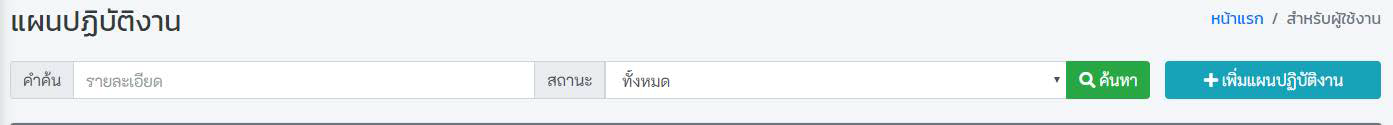
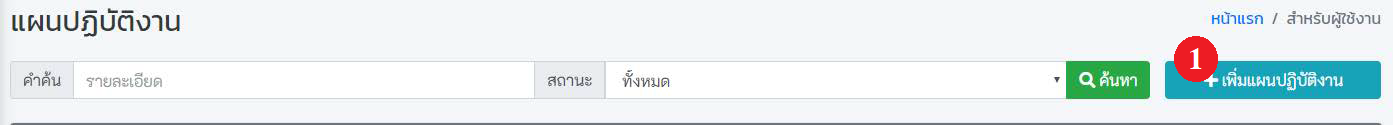
edit document by natanon

Changed region(s): [[0.8335, 0.288, 0.8952, 0.648]]

diff --git a/docs/.vuepress/config.js b/docs/.vuepress/config.js
@@ -1,5 +1,5 @@
 module.exports = {
-    title: 'Co-Vaccine-Moph V.0.1.5 Update 15/03/2021',
+    title: 'Co-Vaccine-Moph V.0.1.6 Update 04/04/2021',
     description: '',
     base: '/co-vaccine-docs/',
     port: '4000',
@@ -24,7 +24,6 @@ module.exports = {
                     '/user/working'
                 ]
             },
-            '/video/',
             '/Q&A/',
             '/contact/',
             '/download/',

diff --git a/docs/user/prepare-work.md b/docs/user/prepare-work.md
@@ -3,7 +3,7 @@ title: 5. เตรียมปฏิบัติงาน
 ---
 
 # เตรียมปฏิบัติงาน
-[คลิกเพื่อดูวีดีโอ "เตรียมปฏิบัติงาน "](https://www.youtube.com/watch?v=lL-rHirBCoc&t=2756s)
+
 
 ![](./img/plan-menu.png)
 
@@ -13,18 +13,24 @@ title: 5. เตรียมปฏิบัติงาน
 ![](./img/plan-search.png)
 
 ## 5.2 เพิ่มแผนปฏิบัติงาน
-[คลิกเพื่อดูวีดีโอ "เพิ่มแผนปฏิบัติงาน"](https://www.youtube.com/watch?v=lL-rHirBCoc&t=2781s)
-- คลิกปุ่ม `เพิ่มแผนปฏิบัติงาน` จะพบหน้าเพิ่มแผนปฏิบัติงานการให้วัคซีน ตามวงกลมแดงหมายเลข 1
-- ระบุ รายละเอียดของแผนการให้วัคซีน ให้ครบถ้วน
-- ระบุวันนัด และรายละเอียด การฉีดครั้งแรก จากนั้นใส่จำนวนวันนัดครั้งถัดไป(ระบบจะคำนวณวันที่ให้)<br />  ตามวงกลมแดงหมายเลข 2  และกดปุ่ม + ตามวงกลมแดงหมายเลข 3 
-- **หากมีการฉีดทั้งหมดมากกว่า 1 ครั้ง** ให้ทำตามวงกลมแดงหมายเลข 2 และตามวงกลมแดงหมายเลข 3<br />จนครบตามต้องการ<br /> **จากรูปตัวอย่าง** ต้องการฉีดทั้งหมด 3 ครั้ง ในแผนการให้วัคซีนนี้ จะพบวันนัดทั้งหมด 3 วัน<br /> ตามวงกลมแดงหมายเลข 4 และพบกิจกรรม 3 กิจกรรม ตามวงกลมแดงหมายเลข 5 
-- **กดบันทึก** ตามวงกลมแดงหมายเลข 6
-
+- คลิกปุ่ม `เพิ่มแผนปฏิบัติงาน` ตามวงกลมแดงหมายเลข 1 จะพบหน้าเพิ่มแผนปฏิบัติงานการให้วัคซีน 
 ![](./img/plan-add-1.png)
-![](./img/plan-add-2.png)
+
+- ระบุ รายละเอียดของแผนการให้วัคซีน ให้ครบถ้วน โดยปกติ 1 วันควรมี 1 แผน  **กรณีมีการให้วัคซีนต่างชนิดกัน แล้วมีวันนัดต่างกัน ควรสร้างแผนใหม่**
+</Br>** วงกลมแดงหมายเลข 2 คือ วันเริ่มแผน ไม่ใช่วันนัด อาจตั้งเป็นวันเดียวกับวันนัด หรือก่อนวันนัดก็ได้
+</Br>** วงกลมแดงหมายเลข 3 คือ วันนัดครั้งแรกเพื่อให้วัคซีนเข็ม1 
+</Br>** วงกลมแดงหมายเลข 4 คือ จำนวนวันที่ให้วัคซีนครั้งถัดไป
+</Br>** วงกลมแดงหมายเลข 5 คือ จำนวนการให้วัคซีนจนครบ เช่น Sinovac จำนวน 2 ครั้ง ก็ระบุ 2
+</Br>** วงกลมแดงหมายเลข 6 คือ ปุ่มกดเพื่อให้ระบบสร้างแผนและจำนวนเข็มการให้วัคซีน </Br>
+</Br>จากนั้นตรวจสอบข้อมูล ตามกรอบสีแดง เพื่อ ดูวันนัดและจำนวนเข็มการให้วัคซีน ว่าถูกต้องหรือไม่</Br> จากนั้น กดปู่มบันทึก
+
+**- สำคัญมาก** ในแผนต้องมีกิจกรรมการให้วัคซีนตามจำนวนเข็มเท่านั้น ห้ามสร้างเกิน เช่น Sinovac ต้องให้จำนวน 2 เข็ม ก็มี 2 เข็มเท่านั้น จำนวนรวมของกิจกรรมห้ามเกิน 2
+![](./img/plan-add-2.jpg)
+
+
 
 ## 5.3 เพิ่มผู้ปฏิบัติงานในแผนฯ
-[คลิกเพื่อดูวีดีโอ "เพิ่มผู้ปฏิบัติงานในแผนฯ"](https://www.youtube.com/watch?v=lL-rHirBCoc&t=3010s)
+
 ![](./img/user-to-plan-1.png)
 ### 5.3.1 รหัสสถานบริการเดียวกัน
 - เลือกแผนปฏิบัติงาน และเลือกรายชื่อผู้ปฏิบัติงานในแผน หลังจากนั้นกดปุ่ม **บันทึก**
@@ -38,7 +44,7 @@ title: 5. เตรียมปฏิบัติงาน
 ![](./img/user-plan-4-difference-hoscode.png)
 
 ## 5.4 เมนูเพิ่มข้อมูลวัคซีน
-[คลิกเพื่อดูวีดีโอ "เพิ่มข้อมูลวัคซีน "](https://www.youtube.com/watch?v=lL-rHirBCoc&t=3260s)
+
 - **กดเพิ่มข้อมูลวัคซีนจากเมนูด้านซ้าย ตามรูปหมายเลข1**
 
 ![](./img/add-vaccine-1.png)
@@ -46,22 +52,27 @@ title: 5. เตรียมปฏิบัติงาน
 - **การค้นหาข้อมูลวัคซีน** 
   - **ระบุเงื่อนไขที่ต้องการค้นหา** เช่น ชื่อวัคซีน Serial No. Lot No. จากนั้นคลิกที่ปุ่ม ค้นหา 
 
-- **เพิ่มข้อมูลวัคซีนรายขวด** ตามรูปหมายเลข 2
+- **เพิ่มข้อมูลวัคซีนรายขวด** ตามวงกลมแดงหมายเลข 2
   ![](./img/add-vaccine-1_2.png)
-  - **ระบุข้อมูลให้ถูกต้อง และครบถ้วน โดยเฉพาะช่องสีแดง** 
-  - **หรือ กดปุ่ม Scan** ตามรูปหมายเลข 5 เพื่อทำการสแกน QR Code , Barcode , Data Matrix ที่ระบุข้างกล่อง ระบบจะทำการอ่านข้อมูล และเติมลงในช่องต่าง ๆ
-  ![](./img/add-vaccine-1_3.png)
-  - **เมื่อเสร็จแล้ว กดปุ่ม บันทึก** ตามรูปหมายเลข 4
+  - **ระบุข้อมูลให้ถูกต้อง และครบถ้วน โดยเฉพาะช่องสีแดง**   
+  - **หรือ กดปุ่ม Scan** ตามวงกลมแดงหมายเลข 5 เพื่อทำการสแกน QR Code , Barcode , Data Matrix ที่ระบุข้างกล่อง ระบบจะทำการอ่านข้อมูล และเติมลงในช่องต่าง ๆ
+  - ตรวจสอบจำนวนการใช้ต่อ 1 ขวด ให้ถูกต้อง ตามวงกลมแดงหมายเลข 3 เพื่อให้ระบบทราบว่าวัคซีน 1 รหัสใช้ได้กี่ครั้ง
+  - **เมื่อเสร็จแล้ว กดปุ่ม บันทึก** ตามวงกลมแดงหมายเลข 4
+  ![](./img/add-vaccine-1_3.jpg)
+  
 
 - **เพิ่มข้อมูลวัคซีนรายกล่อง** ตามรูปหมายเลข 1
   ![](./img/add-vaccine-2_1.png)
   - **ระบุข้อมูลให้ถูกต้อง และครบถ้วน โดยเฉพาะช่องสีแดง** 
-  - **หรือ กดปุ่ม Scan** ตามรูปหมายเลข 2 เพื่อทำการสแกน QR Code , Barcode , Data Matrix ที่ระบุข้างกล่อง ระบบจะทำการอ่านข้อมูล และเติมลงในช่องต่าง ๆ
-  ![](./img/add-vaccine-2_2.png)
-  - **เมื่อเสร็จแล้ว กดปุ่ม บันทึก** ตามรูปหมายเลข 3
+  - **หรือ กดปุ่ม Scan** ตามวงกลมแดงหมายเลข 2 เพื่อทำการสแกน QR Code , Barcode , Data Matrix ที่ระบุข้างกล่อง ระบบจะทำการอ่านข้อมูล และเติมลงในช่องต่าง ๆ 
+  - ระบบจะนำ จำนวนขวดต่อกล่อง ไปคำนวณสร้างรหัสให้เอง เช่น 10 ขวดต่อกล่อง ระบบจะสร้างรหัสวัคซีน ให้ 10 รหัส
+  - ตรวจสอบจำนวนการใช้ต่อ 1 ขวด ให้ถูกต้อง ตามวงกลมแดงหมายเลข 3 เพื่อให้ระบบทราบว่าวัคซีน 1 รหัสใช้ได้กี่ครั้ง
+  - **เมื่อเสร็จแล้ว กดปุ่ม บันทึก** ตามวงกลมแดงหมายเลข 4
+  ![](./img/add-vaccine-2_2.jpg)
+  
 
 ## 5.5 ผูกวัคซีนกับกิจกรรม
-[คลิกเพื่อดูวีดีโอ "ผูกวัคซีนกับกิจกรรม"](https://www.youtube.com/watch?v=lL-rHirBCoc&t=3650s)
+
 
 ![](./img/vaccine-join-1.png)
 - **เปลี่ยนกิจกรรม** ตามรูปหมายเลข 1 หากไม่ใช่กิจกรรมที่ต้องการผูกกับวัคซีน
@@ -81,7 +92,7 @@ title: 5. เตรียมปฏิบัติงาน
 
 
 ## 5.6 พิมพ์ QR Code วัคซีน
-[คลิกเพื่อดูวีดีโอ "พิมพ์ QR Code วัคซีน"](https://www.youtube.com/watch?v=lL-rHirBCoc&t=3870s)
+
 
 ![](./img/qrcode-1.png)
 ![](./img/qrcode-2.png)

diff --git a/docs/user/working.md b/docs/user/working.md
@@ -4,13 +4,13 @@ title: 6. ออกปฏิบัติงาน
 
 # ออกปฏิบัติงาน
 
-[คลิกเพื่อดูวีดีโอ "ออกปฏิบัติงาน"](https://www.youtube.com/watch?v=lL-rHirBCoc&t=4174s)
+
 
 ## 6.1 ลงทะเบียนผู้รับวัคซีน
-[คลิกเพื่อดูวีดีโอ "ลงทะเบียนผู้รับวัคซีน"](https://www.youtube.com/watch?v=lL-rHirBCoc&t=4185s)
+
 ### 6.1.1 การค้นหา
 - **การค้นหา** คลิกที่ Checkbox ตรวจสอบว่ามีสิทธิ์เข้ารับวัคซีนหรือไม่ระบุเงื่อนไขในการค้นหา เช่น เลขบัตรประจำตัวประชาชน ขื่อ นามสกุล หลังจากนั้นกดปุ่ม **ค้นหา**
-![](./img/service-recipient-1.png)
+![](./img/regis01.jpg)
 
 - **การใช้เครื่องอ่านบัตรประจำตัวประชาชนแบบ Smartcard**
   - คลิกที่ checkbox ใช้เครื่องอ่านบัตร
@@ -24,24 +24,27 @@ title: 6. ออกปฏิบัติงาน
   - ระบบจะเติมข้อมูลที่ได้จากบัตร ลงในช่องข้อมูล
   - ระบุข้อมูลให้ถูกต้อง และครบถ้วน **โดยเฉพาะช่องสีแดง** หลังจากนั้นกดปุ่ม **บันทึก**
   - เมื่อกดปุ่มบันทึก หน้าจอจะแสดงปุ่ม **พิมพ์ใบลงทะเบียน ให้กดปุ่มพิมพ์ใบลงทะเบียน** เพื่อปริ้นใบลงทะเบียนให้กับผู้รับบริการ
-  ![](./img/service-recipient-1_2.png)
+  ![](./img/regis02.jpg)
 
 ## 6.2 รายการลงทะเบียน
-[คลิกเพื่อดูวีดีโอ "รายการลงทะเบียน"](https://www.youtube.com/watch?v=lL-rHirBCoc&t=4837s)
 ![](./img/register-list-1.png)
 
 ## 6.3 คัดกรองก่อนให้วัคซีน 
-* สำคัญมากต้องกรอกทุกTab "**มี 3 Tab**"(วงกลมแดงหมายเลข 4 ตามรูป)<br/> โดยเฉพาะ สุขภาพ/vital sign "**ต้องกรอกให้ครบ**" และ "**ห้ามใส่ เลข 0**"  <br/>ไม่เช่นนั้น ข้อมูลจะไม่ส่งไปยัง [MOPH Immunization Center Dashboard](https://cvp1.moph.go.th/dashboard/)(MOPH IC)<br/><br/>
-[คลิกเพื่อดูวีดีโอ "คัดกรองก่อนให้วัคซีน"](https://www.youtube.com/watch?v=lL-rHirBCoc&t=4895s)
+
 ### 6.3.1 ค้นหา
 - ค้นหาโดยกรอกเลขบัตรประจำตัวประชาชน หรือ
 - ใช้เครื่องอ่านบัตรประจำตัวประชาชนแบบ Smartcard  คลิกที่ checkbox อ่านบัตร
-![](./img/screening-1.png)
+![](./img/screening-1.jpg)
+
+* สำคัญมากต้องกรอกทุก"**ต้องกรอกให้ครบ**" และ "**ห้ามใส่ เลข 0**"  <br/>ไม่เช่นนั้น ข้อมูลจะไม่ส่งไปยัง [MOPH Immunization Center Dashboard](https://cvp1.moph.go.th/dashboard/)(MOPH IC)<br/><br/>
+![](./img/screening-2.jpg)
+![](./img/screening-3.jpg)
+
 - พิมพ์ Consent Form
 ![](./img/concense-form-1.png)
 
 ## 6.4 การให้วัคซีน
-[คลิกเพื่อดูวีดีโอ "การให้วัคซีน"](https://www.youtube.com/watch?v=lL-rHirBCoc&t=5255s)
+
 ### 6.4.1 ค้นหา
 - ค้นหาโดยกรอกเลขบัตรประจำตัวประชาชน หรือ
 - ใช้เครื่องอ่านบัตรประจำตัวประชาชนแบบ Smartcard คลิกที่ checkbox อ่านบัตร
@@ -50,19 +53,28 @@ title: 6. ออกปฏิบัติงาน
 ### 6.4.2 กรอกข้อมูล
 - ระบุข้อมูลให้ถูกต้อง ครบถ้วน **โดยเฉพาะช่องสีแดง** หรือ กดปุ่ม Scan QR Code ระบบจะเติมข้อมูลที่ได้จาก QR Code ลงในช่องข้อมูล หลังจากนั้นกดปุ่ม **บันทึก**
 
-![](./img/vaccine-operation-2.png)
+![](./img/vaccine-operation-2.jpg)
 
 ### 6.4.3 พิมพ์ใบนัด
 ![](./img/vaccine-appointment-1.png)
 
 ## 6.5 จุดตรวจสอบก่อนกลับบ้าน
-[คลิกเพื่อดูวีดีโอ "จุดตรวจสอบก่อนกลับบ้าน"](https://www.youtube.com/watch?v=lL-rHirBCoc&t=6070s)
-![](./img/check-before-gohome-1.png)
+- หลังจากฉีดแล้ว 30 นาที หากมีอาการไม่พึงประสงค์ ให้ติ๊กถูก ตามวงกลมหมายเลข 1 จากนั้น บันทึกข้อมูล ตามปุ่ม วงกลมแดงหมายเลข 2 หากไม่มีอาการให้กดปุ่ม วงกลมแดงหมายเลข 2 ได้เลย จากนั้น เลือกอนุญาติให้กลับบ้านได้ ตามวงกลมแดงหมาย 3 ปุ่มนี้จะส่งข้อมูลการให้วัคซีนครั้งนี้ ไปยังระบบ ( MOPH IC )  [MOPH Immunization Center Dashboard](https://cvp1.moph.go.th/dashboard/)
+![](./img/check-before-gohome-1.jpg)
+- หากบันทึกการให้วัคซีน 2 เข็มครบถ้วนแล้ว จะปรากฏ ปุ่มพิมพ์ใบรับรองการฉีดวัคซีน ตามวงกลมแดงหมาย 4
+หากไม่ปรากฏ ปุ่มพิมพ์ใบรับรองการฉีดวัคซีน ให้ตรวจสอบว่า ในกรอบวงกลมแดงหมายเลข 5 ขึ้นเครื่องหมายถูกสีเขียว ทั้ง 2 ครั้งหรือไม่ หากไม่ขึ้นตามรูปตัวอย่าง ให้ตรวจสอบว่าบันทึก เข็มที่ 2 ผิดแผนหรือไม่
+**เข็มที่ 1 และเข็มที่ 2 ที่บันทึกให้ผู้ฉีดต้องอยู่ในแผนเดียวกันเท่านั้น**
+![](./img/check-before-gohome-2.jpg)
 
 ## 6.6 ติดตามอาการ
 ![](./img/follow-1.png)
 - บันทึกติดตามอาการหลังจากได้รับวัคซีน 7 วัน หรือ 30 วัน
 ![](./img/follow-2.png)
+
+## 6.6 ส่งข้อมูลเข้า IC
+- เป็นเมนูสำหรับ ส่งข้อมูลการการให้วัคซีนเข้าระบบ ( MOPH IC )  [MOPH Immunization Center Dashboard](https://cvp1.moph.go.th/dashboard/) เมื่อมีการแก้ไขการให้วัคซีน หรือต้องการ update ข้อมูลการให้วัคซีน โดยสามารถเลือกรายคน ในกรอบวงกลมแดงหมายเลข 1 
+<br>หรือเลือกหลายรายการในกรอบวงกลมแดงหมายเลข 2 แล้วกดปุ่ม ส่ง IC ทั้งหมดที่เลือก ตามวงกลมแดงหมายเลข 3
+![](./img/sendic.jpg)
 
 ## 6.7 ดาวน์โหลดข้อมูล
 - เลือกแผนปฏิบัติงาน และเลือกกิจกรรมของงานหรือ คลิกที่ checkbox ทั้งหมด หากต้องดาวน์โหลดข้อมูลผู้ที่ได้รับวัคซีนทั้งหมด

diff --git a/docs/README.md b/docs/README.md
@@ -2,7 +2,6 @@
 
 1. [ภาพรวมขั้นตอนการให้บริการ](https://ict.moph.go.th/upload_file/files/c2ee124ca87ed0f4a23bab985ba16246.pdf)
 1. [คู่มือการใช้งาน](../user/login.md)
-1. [วีดีโอสอนการใช้งาน](../video/index.md)
 1. [ถาม-ตอบ ระบบ Co-Vaccine](https://docs.google.com/document/u/0/d/1_6qTG-n3PZt_2mOQiUma_ov1snj_FXaucPHIR5lma4A/mobilebasic)
 1. [ช่องทางติดต่อสื่อสาร](../user/login.md)
 1. [ดาวน์โหลดเอกสาร](../contact/index.md)
@@ -11,4 +10,4 @@
 >เมนูเพิ่มเติมอื่น ๆ สามารถกดปุ่มไอคอนแฮมเบอร์เกอร์
 ![](./img/menu-top.png)
 
-### Version 0.1.5 Update 15/03/2021 11:39 AM
+### Version 0.1.6 Update 04/04/2021 11:39 AM
